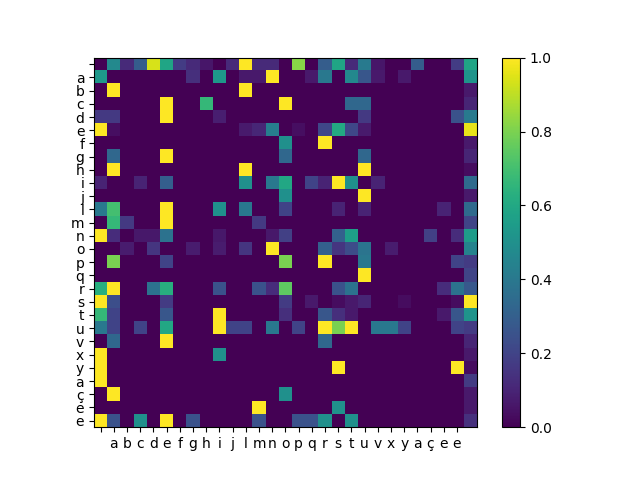
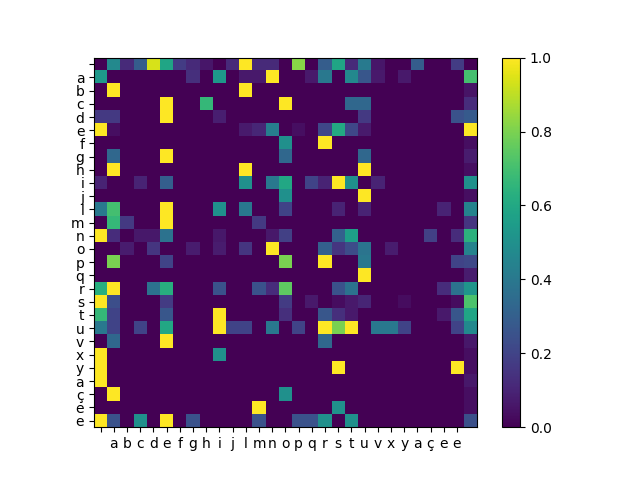
Fix frequency letter

diff --git a/src/display.py b/src/display.py
@@ -21,7 +21,9 @@ if __name__ == "__main__":
     filepath = os.path.join(images_dir, filename)
 
     max_per_row = np.amax(markov_chain.transition_array, axis=1)[:,None]
-    matrix = np.hstack((np.nan_to_num(markov_chain.transition_array / max_per_row), (max_per_row / np.max(max_per_row))))
+    sum_per_row = np.sum(markov_chain.transition_array, axis=1)[:,None]
+    sum_per_row[0,0] = 0 # hide spaces
+    matrix = np.hstack((np.nan_to_num(markov_chain.transition_array / max_per_row), (sum_per_row / np.max(sum_per_row))))
     
     plt.imshow(matrix, cmap="viridis")
     plt.colorbar()

diff --git a/docs/index.md b/docs/index.md
@@ -5,11 +5,11 @@ includes: images
 ---
 
 [words]: {{ site.production_url }}/images/words.png "French words"
-[fr]: {{ site.production_url }}/images/Notre_Dame_de_Paris.png "Notre-Dame de Paris"
-[fr_full]: {{ site.production_url }}/images/Notre_Dame_de_Paris_full.png "Notre-Dame de Paris with accents"
-[en]: {{ site.production_url }}/images/Notre_Dame_de_Paris_en.png "Notre-Dame de Paris in english"
-[it]: {{ site.production_url }}/images/Un_capriccio_del_dottor_Ox.png "Un capriccio del dottor Ox"
-[it_full]: {{ site.production_url }}/images/Un_capriccio_del_dottor_Ox_full.png "Un capriccio del dottor Ox with accents"
+[fr]: {{ site.production_url }}/images/fr.png "Notre-Dame de Paris"
+[fr_full]: {{ site.production_url }}/images/fr_full.png "Notre-Dame de Paris with accents"
+[en]: {{ site.production_url }}/images/en.png "Notre-Dame de Paris in english"
+[it]: {{ site.production_url }}/images/it.png "Un capriccio del dottor Ox"
+[it_full]: {{ site.production_url }}/images/it_full.png "Un capriccio del dottor Ox with accents"
 [guadeloupe]: {{ site.production_url }}/images/guadeloupe.png "Guadeloupe"
 
 ## How to determine the signature markov chain of a language
